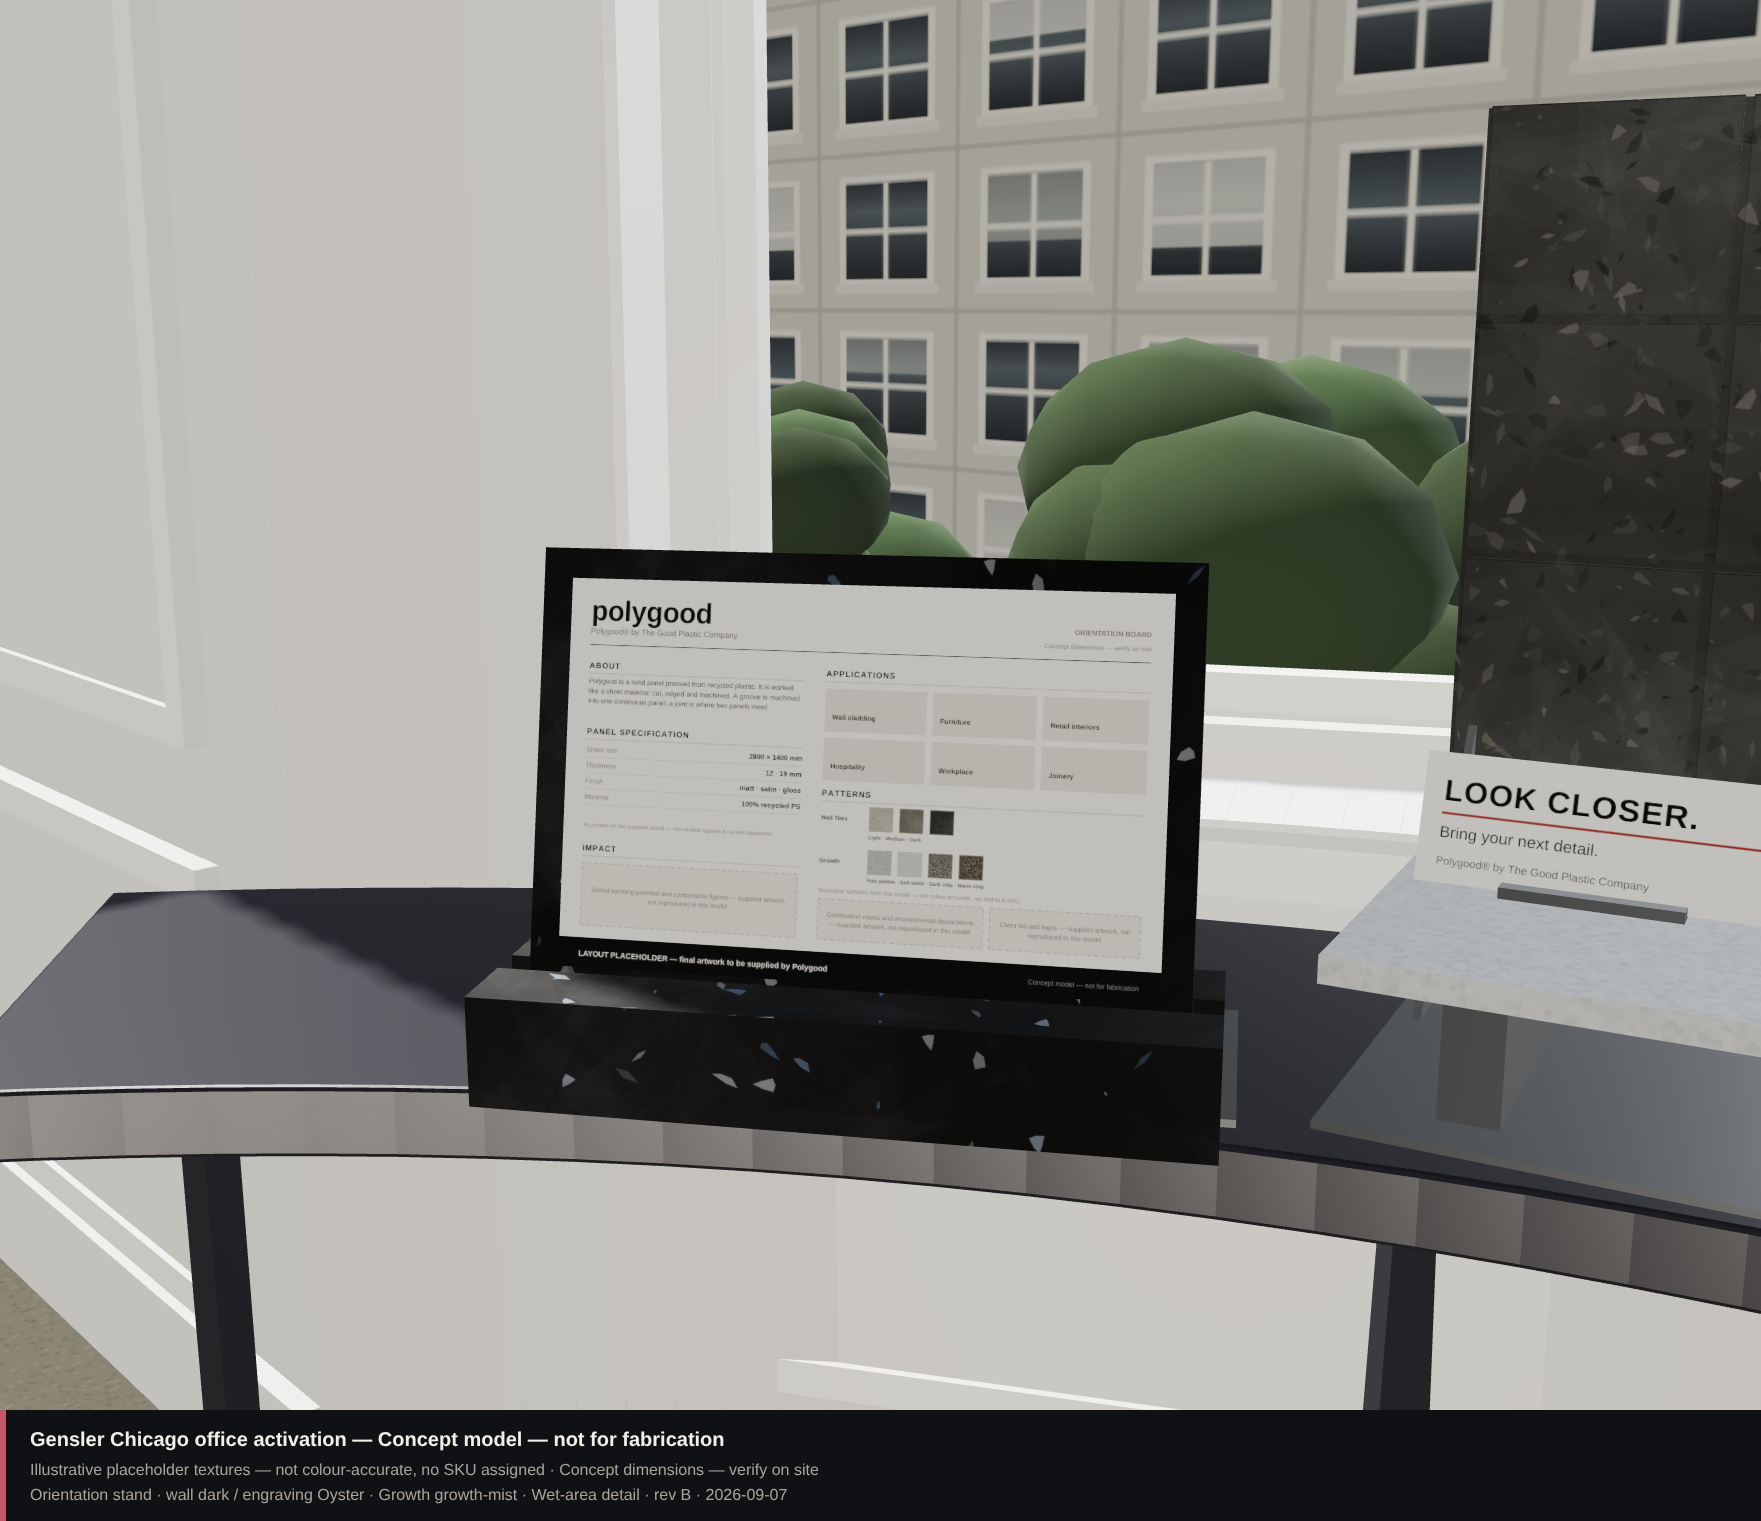
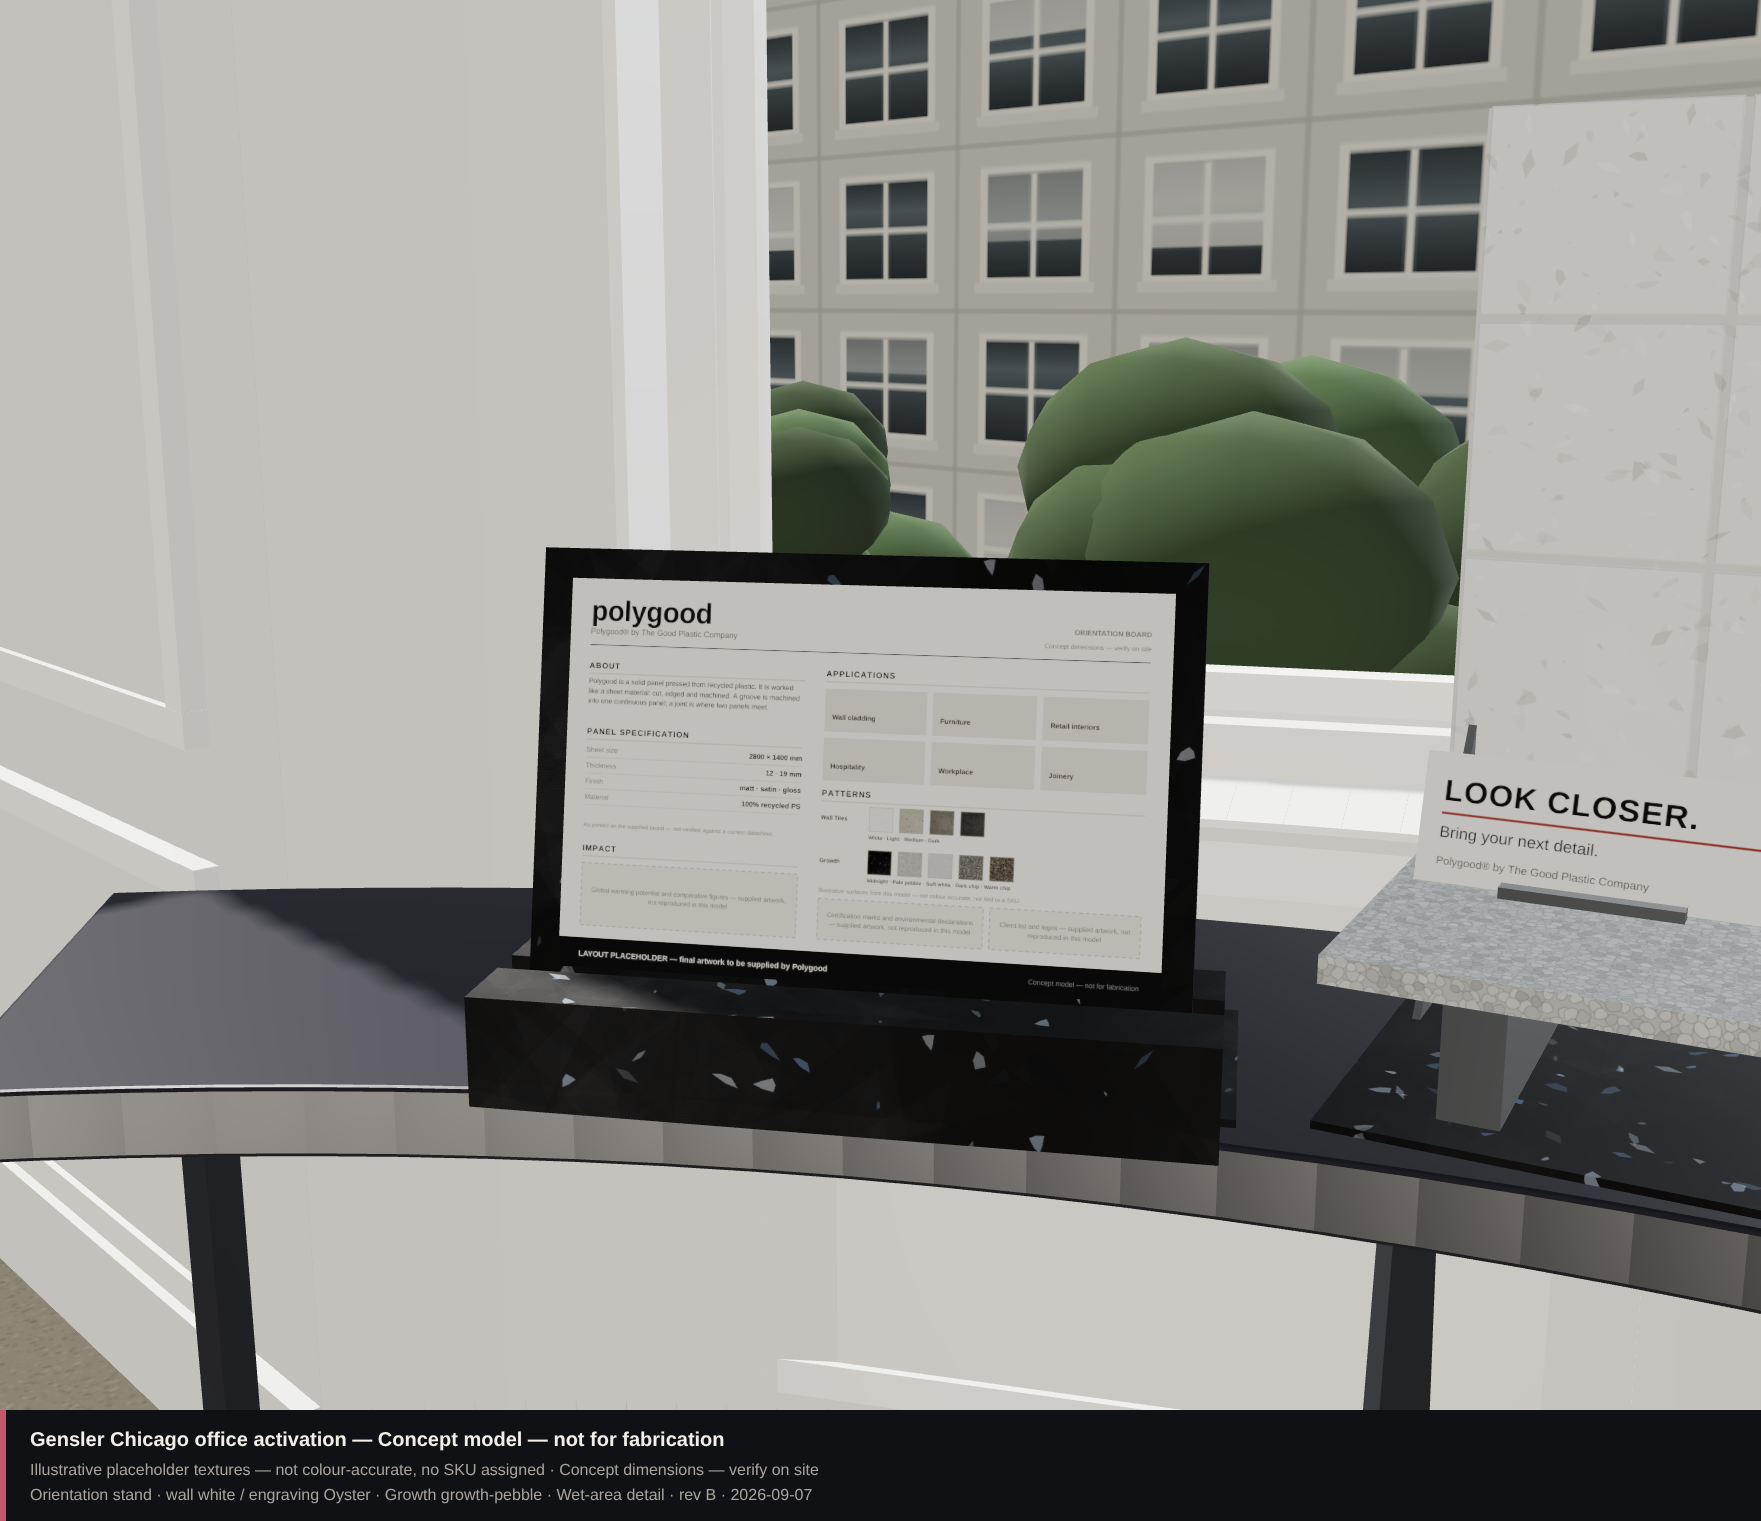
White panel standing, black panel beneath — and put the metalwork back
The concept lives in the panels, not the structure. Corrects the previous
commit, which read "stands" as the support metalwork and painted it white.

- wallColours gains `white`, and it is the opening choice: the panel that
  stands is white, carrying the Oyster engraving.
- growthSurfaces gains `growth-midnight` — the same dark, pale-flecked
  surface as the base — and it is the opening choice for the panel beneath.
  It sits in the Growth range rather than being wired in directly, so the
  Growth swatch row still drives the horizontal panel. The concept is a
  default, not a lock.
- finish.stand and finish.pad go back to the values the model has always
  used, expressed in sRGB and converted on load rather than reverting to
  literals. The metalwork stays dark and recessive so it does not compete
  with the two panels.

White is the right ground for Oyster: a 43 mm cell machined 4 mm deep reads as
shadow, not as colour, so on a dark panel the groove and the field go the same
tone and the engraving disappears — the opposite of what LOOK CLOSER needs.

One consequence, documented rather than silently worked around: the four
engraved Growth samples take the selected Growth surface, so they are now
black on black and the engravings are hard to read at 150 mm. The palette
exists to compare engravings. Either a lighter Growth is picked for that unit,
or the samples need decoupling from the horizontal panel.

Claude-Session: https://claude.ai/code/session_01RrtzjYnURxMGb191qk9yjN

diff --git a/spaces/gensler-chicago-activation/config.js b/spaces/gensler-chicago-activation/config.js
@@ -172,8 +172,8 @@ window.PG_CONFIG = {
      three choices remain independent, and nothing here removes a control.
      Set any of these to null to fall back to the first entry in its list. */
   defaults: {
-    wall:      'dark',          // wallColours id — the dark tile
-    growth:    'growth-pebble', // growthSurfaces id
+    wall:      'white',         // wallColours id — the standing panel
+    growth:    'growth-midnight', // growthSurfaces id — the panel beneath
     engraving: null,            // engravings id
     question:  null,            // questions id
     view:      'approach'       // vantage key: approach | eye | detail | overhead |
@@ -187,11 +187,15 @@ window.PG_CONFIG = {
      real Polygood surface from standSurfaces — the base is a panel, not a
      painted tray, which is why it carries a texture and the stands do not. */
   finish: {
-    stand:      '#f4f4f2',    // trays' structure, rails, fins, gussets, cradles
-    standRough: 0.52,
-    standMetal: 0.0,
-    pad:        '#e9e9e6',    // protective contact pads
-    baseTile:   'nightfleck'  // standSurfaces id — the tile beneath
+    // The support metalwork. Dark and recessive on purpose: the white/black
+    // idea lives in the PANELS, and structure that competes with them would
+    // work against it. These are the values the model has always used,
+    // expressed in sRGB and converted on load.
+    stand:      '#5f6265',    // rails, fins, gussets, cradles
+    standRough: 0.50,
+    standMetal: 0.55,
+    pad:        '#4f535a',    // protective contact pads
+    baseTile:   'nightfleck'  // standSurfaces id — the base each unit stands on
   },
 
   engravingReferenceSheet: 300,   // assumed sheet size the proportions came from
@@ -230,6 +234,10 @@ window.PG_CONFIG = {
      Growth is a separate range — greys and blacks, some fibrous — so the two
      product families stay visibly distinct, as they are in specification.    */
   wallColours: [
+    // the standing panel in the LOOK CLOSER unit. White, so the Oyster
+    // engraving reads as shadow rather than as colour.
+    { id: 'white',  name: 'White — illustrative',  pattern: 'flake', base: '#e9e9e6',
+      flake: ['#f7f7f5', '#d3d3cf', '#bfbfba'],           density: 0.85, seed: 3007 },
     { id: 'light',  name: 'Light — illustrative',  pattern: 'flake', base: '#b9b3a6',
       flake: ['#8f8779', '#d6d1c6', '#6f6a60'], density: 1.0, seed: 1041 },
     { id: 'medium', name: 'Medium — illustrative', pattern: 'flake', base: '#7d766b',
@@ -256,6 +264,13 @@ window.PG_CONFIG = {
      200 mm for the three 3000 px images, 150 mm for the smaller one.
      Correct these first when a real sample or a scaled photograph arrives. */
   growthSurfaces: [
+    // 0 — the panel BENEATH the standing panel. Same dark, pale-flecked
+    //     surface as the base ("Midnight"), carried into the Growth range so
+    //     the Growth swatch row still drives the horizontal panel.
+    { id: 'growth-midnight', name: 'Midnight — illustrative', pattern: 'flake',
+      base: '#0a0a0c', flake: ['#d6e6f8', '#eef5fd', '#8fb2d6', '#1c2026'],
+      density: 0.32, seed: 5501 },
+
     // 1 — dense rounded pebbles, near-white, very low contrast (L 153–208)
     { id: 'growth-pebble', name: 'Pale pebble — illustrative', pattern: 'chips',
       base: '#bdbdb9', flake: ['#d0d1cc', '#cdccca', '#c6c7c2', '#c9c9c5', '#bcbcba', '#b1b1ac'],

diff --git a/spaces/gensler-chicago-activation/dist/index.html b/spaces/gensler-chicago-activation/dist/index.html
@@ -382,8 +382,8 @@ window.PG_CONFIG = {
      three choices remain independent, and nothing here removes a control.
      Set any of these to null to fall back to the first entry in its list. */
   defaults: {
-    wall:      'dark',          // wallColours id — the dark tile
-    growth:    'growth-pebble', // growthSurfaces id
+    wall:      'white',         // wallColours id — the standing panel
+    growth:    'growth-midnight', // growthSurfaces id — the panel beneath
     engraving: null,            // engravings id
     question:  null,            // questions id
     view:      'approach'       // vantage key: approach | eye | detail | overhead |
@@ -397,11 +397,15 @@ window.PG_CONFIG = {
      real Polygood surface from standSurfaces — the base is a panel, not a
      painted tray, which is why it carries a texture and the stands do not. */
   finish: {
-    stand:      '#f4f4f2',    // trays' structure, rails, fins, gussets, cradles
-    standRough: 0.52,
-    standMetal: 0.0,
-    pad:        '#e9e9e6',    // protective contact pads
-    baseTile:   'nightfleck'  // standSurfaces id — the tile beneath
+    // The support metalwork. Dark and recessive on purpose: the white/black
+    // idea lives in the PANELS, and structure that competes with them would
+    // work against it. These are the values the model has always used,
+    // expressed in sRGB and converted on load.
+    stand:      '#5f6265',    // rails, fins, gussets, cradles
+    standRough: 0.50,
+    standMetal: 0.55,
+    pad:        '#4f535a',    // protective contact pads
+    baseTile:   'nightfleck'  // standSurfaces id — the base each unit stands on
   },
 
   engravingReferenceSheet: 300,   // assumed sheet size the proportions came from
@@ -440,6 +444,10 @@ window.PG_CONFIG = {
      Growth is a separate range — greys and blacks, some fibrous — so the two
      product families stay visibly distinct, as they are in specification.    */
   wallColours: [
+    // the standing panel in the LOOK CLOSER unit. White, so the Oyster
+    // engraving reads as shadow rather than as colour.
+    { id: 'white',  name: 'White — illustrative',  pattern: 'flake', base: '#e9e9e6',
+      flake: ['#f7f7f5', '#d3d3cf', '#bfbfba'],           density: 0.85, seed: 3007 },
     { id: 'light',  name: 'Light — illustrative',  pattern: 'flake', base: '#b9b3a6',
       flake: ['#8f8779', '#d6d1c6', '#6f6a60'], density: 1.0, seed: 1041 },
     { id: 'medium', name: 'Medium — illustrative', pattern: 'flake', base: '#7d766b',
@@ -466,6 +474,13 @@ window.PG_CONFIG = {
      200 mm for the three 3000 px images, 150 mm for the smaller one.
      Correct these first when a real sample or a scaled photograph arrives. */
   growthSurfaces: [
+    // 0 — the panel BENEATH the standing panel. Same dark, pale-flecked
+    //     surface as the base ("Midnight"), carried into the Growth range so
+    //     the Growth swatch row still drives the horizontal panel.
+    { id: 'growth-midnight', name: 'Midnight — illustrative', pattern: 'flake',
+      base: '#0a0a0c', flake: ['#d6e6f8', '#eef5fd', '#8fb2d6', '#1c2026'],
+      density: 0.32, seed: 5501 },
+
     // 1 — dense rounded pebbles, near-white, very low contrast (L 153–208)
     { id: 'growth-pebble', name: 'Pale pebble — illustrative', pattern: 'chips',
       base: '#bdbdb9', flake: ['#d0d1cc', '#cdccca', '#c6c7c2', '#c9c9c5', '#bcbcba', '#b1b1ac'],

diff --git a/spaces/gensler-chicago-activation/README.md b/spaces/gensler-chicago-activation/README.md
@@ -62,30 +62,37 @@ Adding a surface to `config.js` adds a button. The stand's own surface lives in
 a separate list (`standSurfaces`) precisely so it does not turn up among the
 tile choices.
 
-### Production finish — white stands, black base tile
+### Production finish — white panel standing, black panel beneath
 
-`config.js` → `finish` carries the concept the production group is being shown:
-the **support metalwork is white**, and the **tile it stands on is black**.
+The idea being shown to the production group lives in the **panels**, not in
+the metalwork: the panel that stands is **white**, carrying the Oyster
+engraving, and the panel beneath it is **black** — Midnight.
 
 ```js
-finish: { stand: '#f4f4f2', pad: '#e9e9e6', baseTile: 'nightfleck' }
+defaults: { wall: 'white', growth: 'growth-midnight', engraving: 'oyster' }
 ```
 
-Structure and material are deliberately different kinds of thing here.
-`stand` is a **paint or powder-coat colour** on the trays, rails, fins,
-gussets and cradles. `baseTile` names a **Polygood surface** from
-`standSurfaces` — the base is a panel, not a painted tray, which is why it
-carries a texture and is UV-mapped from its own extents like every other
-panel. Painting the base instead of specifying it as a panel would have made
-the model quietly lie about what is being ordered.
+Both are ordinary entries in their ranges, so the swatch rows still drive
+them: `white` is a Wall Tiles colour and `growth-midnight` a Growth surface.
+The concept is a *default*, not a lock.
 
-The base currently uses `nightfleck`, the dark, pale-flecked surface supplied
-as a photograph. It reads black and is illustrative — not colour accurate, no
-SKU. If "Midnight" turns out to be a real product name, that is the value to
-put here.
+White is the right ground for Oyster because a 43 mm cell machined 4 mm deep
+reads as **shadow**, not as colour. On a dark panel the groove and the field
+go the same tone and the engraving disappears — which is the opposite of what
+a campaign called LOOK CLOSER needs.
 
-Note for the record: the supports have been the same dark grey since the first
-commit, so this is a **new decision**, not a restoration of an earlier render.
+`config.js` → `finish` keeps the support metalwork dark and recessive, at the
+values the model has always used, now expressed in sRGB and converted on load.
+`baseTile` is the panel each assembly stands on. It is built as a **panel**,
+not a painted tray: it carries the surface and is UV-mapped from its own
+extents like every other panel, because the schedule orders dark 500 x 500
+panels for the lower part of the pedestal, not paint.
+
+**One consequence to decide on.** The four engraved Growth samples take the
+selected Growth surface, so with Midnight as the default they are now black on
+black and the engravings are hard to read at 150 mm. The palette exists to
+compare engravings. Either pick a lighter Growth from the swatch row for that
+unit, or the samples need decoupling from the horizontal panel.
 
 ### Seeing it without the room
 
